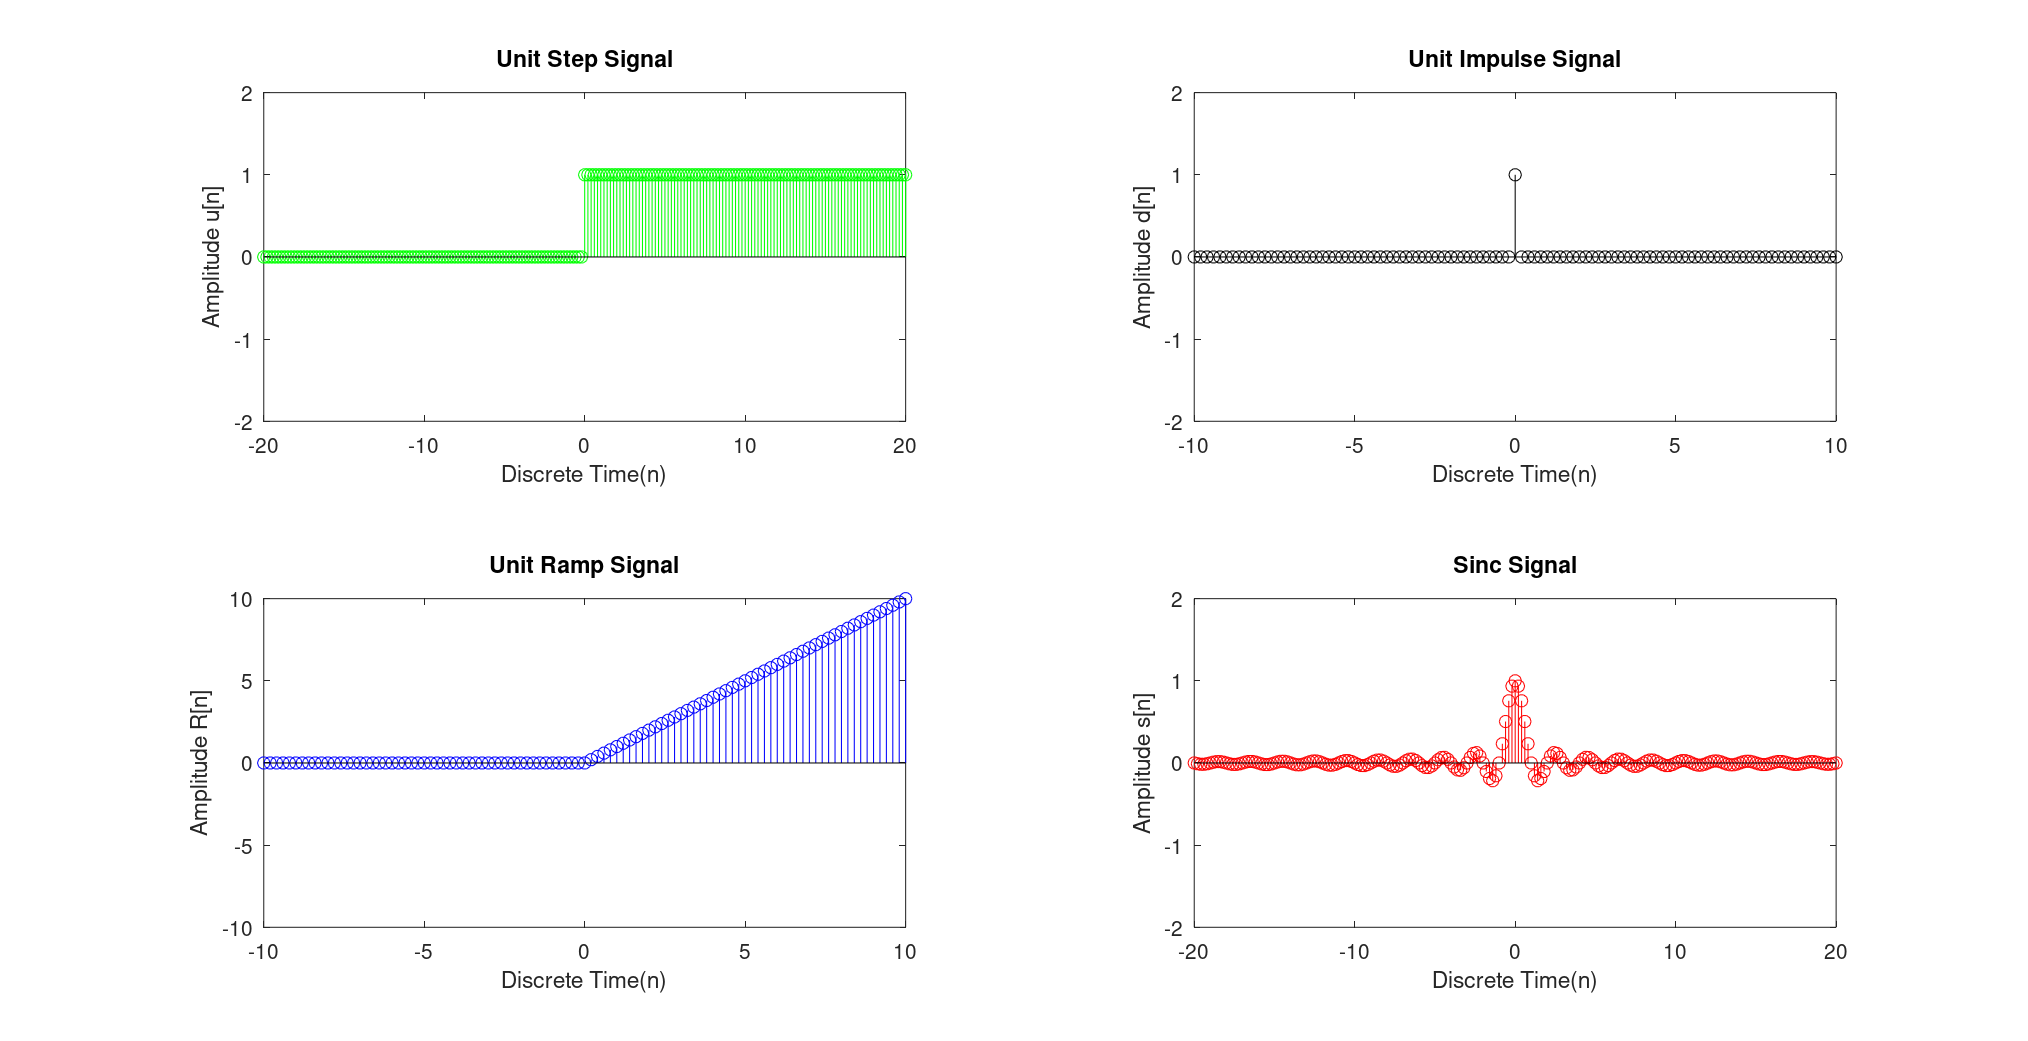
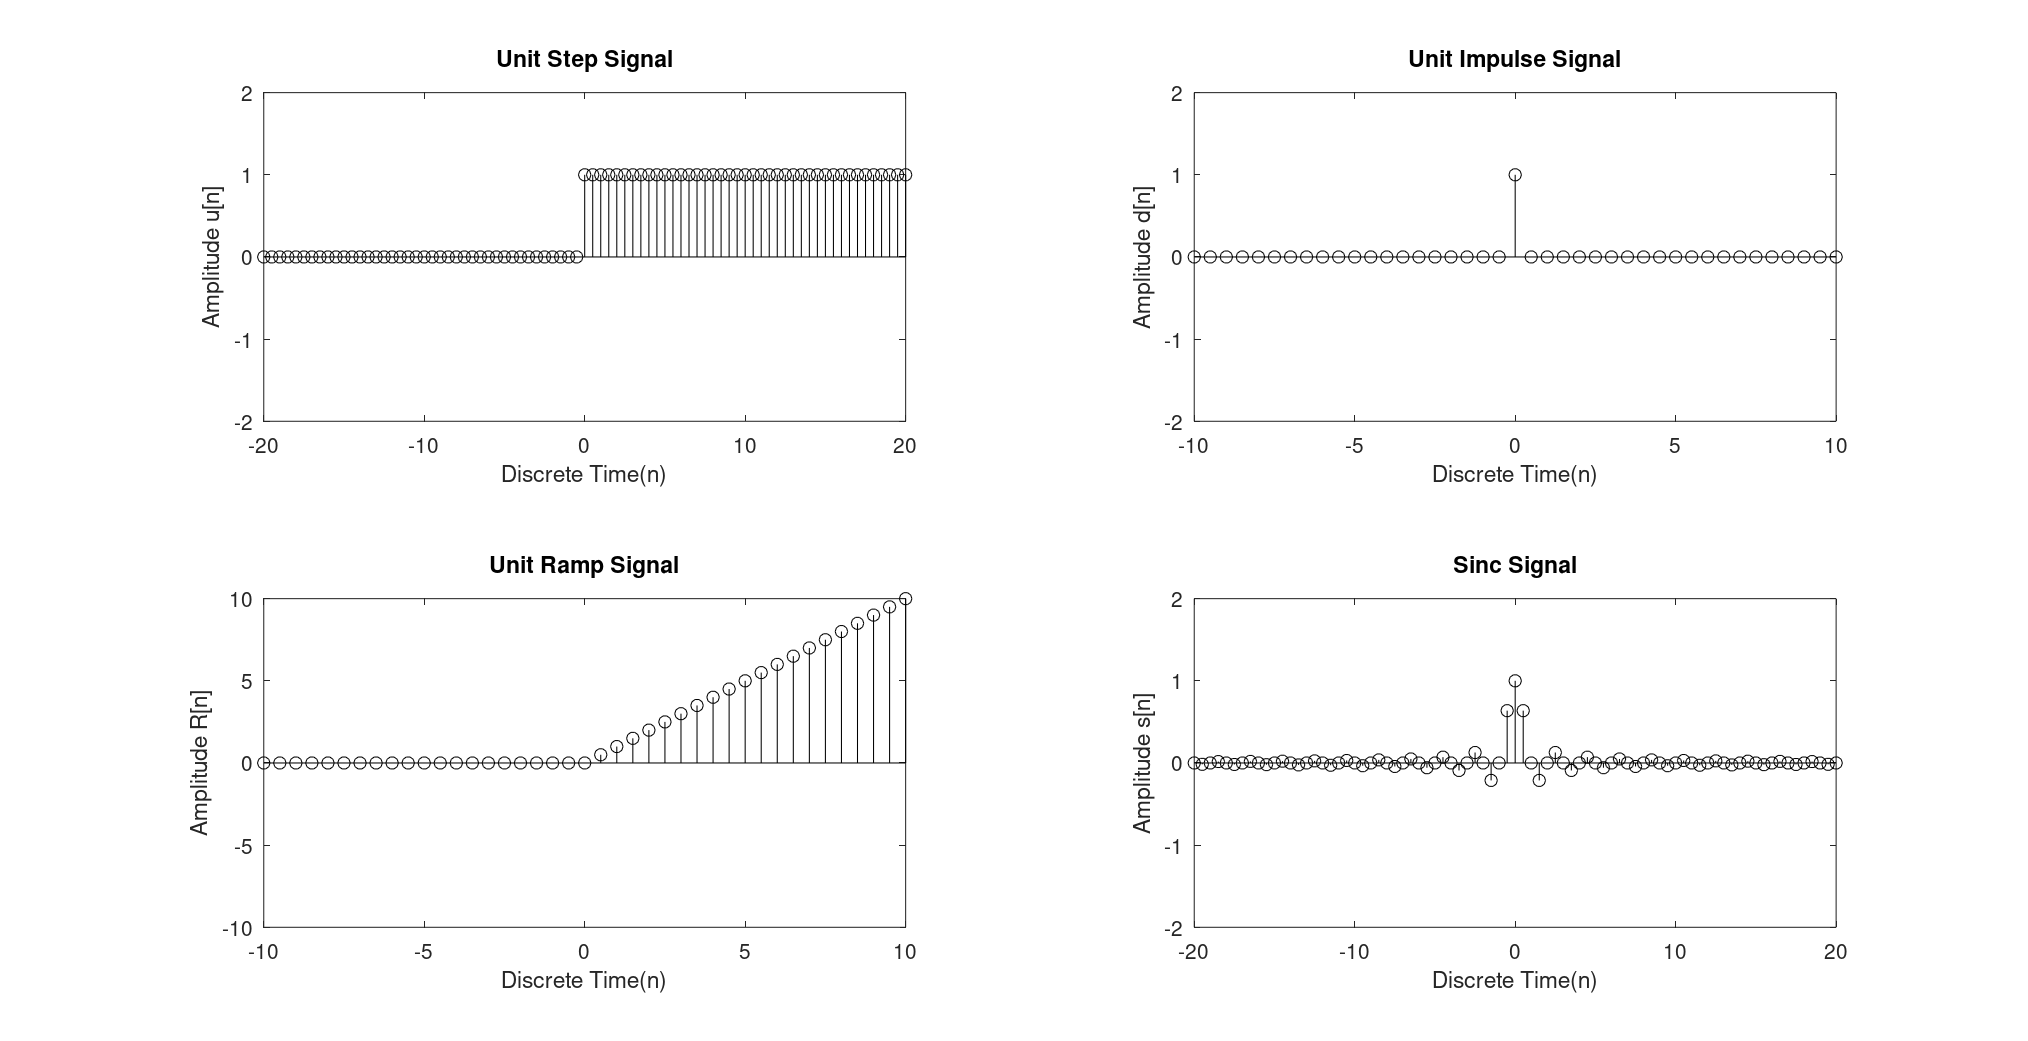
Completed Lab 2

diff --git a/lab2/shifting.m b/lab2/shifting.m
@@ -1,0 +1,70 @@
+% Plot for x[n] = 1 for -4<=n<=0 and
+%                 2 for 1<=n<=4
+% Resets
+clc
+clear variables 
+close all
+% Code 
+% Variables
+xticks_val=-8:1:8;
+yticks_val=-3:1:3;
+axis_val=[-8 8 -3 3];
+shift=3;
+n = -4:1:4;
+x = zeros(1,length(n));
+for i=1:length(n)
+    if n(i) <=0
+        x(i) = 1;
+    else 
+        x(i) = 2;
+    endif
+endfor 
+% Subplot for x[n]
+subplot(2,2,1);
+stem(n,x,'k');
+axis(axis_val)
+xticks(xticks_val);
+yticks(yticks_val);
+xlabel("Discrete Interval n");
+ylabel("Amplitude");
+title("Original Signal x[n] | CRN: KCE075BCT008");
+grid on;
+% Shifting 
+% right shifting x[n-3]
+subplot(2,2,2);
+stem(n+shift,x,'k');
+axis(axis_val)
+xticks(xticks_val);
+yticks(yticks_val);
+xlabel("Discrete Interval n");
+ylabel("Amplitude");
+title("Right Shifted Signal x[n-3] | CRN: KCE075BCT008");
+grid on;
+% Left shifting x[n+3]
+subplot(2,2,3);
+stem(n-shift,x,'k');
+axis(axis_val)
+xticks(xticks_val);
+yticks(yticks_val);
+xlabel("Discrete Interval n");
+ylabel("Amplitude");
+title("Left Shifted Signal x[n+3] | CRN: KCE075BCT008");
+grid on;
+% Folding x[-n]
+% Using -n
+% subplot(2,4,4);
+% stem(-n, x,'k');
+% axis([-10 10 -3 3])
+% xlabel("Discrete Interval n");
+% ylabel("Amplitude");
+% title("Folded Signal x[-n] using -n");
+% Using fliplr
+subplot(2,2,4);
+stem(n, fliplr(x),'k');
+axis(axis_val)
+xticks(xticks_val);
+yticks(yticks_val);
+xlabel("Discrete Interval n");
+ylabel("Amplitude");
+title("Folded Signal x[-n] using fliplr | CRN: KCE075BCT008");
+grid on;

diff --git a/lab2/scaling.m b/lab2/scaling.m
@@ -1,0 +1,59 @@
+% Plot for x[n] = 1 for -4<=n<=0 and
+%                 2 for 1<=n<=4
+% Resets
+clc
+clear variables 
+close all
+% Code 
+% Variables
+scale_factor = 2;
+xticks_val=-10:1:10;
+yticks_val=-3:1:3;
+axis_val=[-10 10 -3 3];
+shift=3;
+n = -4:1:4;
+x = zeros(1,length(n));
+for i=1:length(n)
+    if n(i) <=0
+        x(i) = 1;
+    else 
+        x(i) = 2;
+    endif
+endfor 
+% Subplot for x[n]
+subplot(2,2,1);
+stem(n,x,'k');
+axis(axis_val)
+xticks(xticks_val);
+yticks(yticks_val);
+xlabel("Discrete Interval n");
+ylabel("Amplitude");
+title("Original Signal x[n] | CRN: KCE075BCT008");
+grid on;
+% Scaling
+% Compressed Signal x[2n]
+op_len = ceil(length(x)/scale_factor);
+x1=zeros(1,op_len);
+for i=1:op_len
+    x1(i) = x(scale_factor*i-1);
+    n1(i) = n(scale_factor*i-1)/scale_factor;
+endfor
+subplot(2,2,2);
+stem(n1,x1,'k');
+axis(axis_val)
+xticks(xticks_val);
+yticks(yticks_val);
+xlabel("Discrete Interval n");
+ylabel("Amplitude");
+title("Compressed Signal x[2n] | CRN: KCE075BCT008");
+grid on;
+% Dilated Signal x[n/2]
+subplot(2,2,3);
+stem(n*scale_factor,x,'k');
+axis(axis_val)
+xticks(xticks_val);
+yticks(yticks_val);
+xlabel("Discrete Interval n");
+ylabel("Amplitude");
+title("Dilated Signal x[n/2] | CRN: KCE075BCT008");
+grid on;

diff --git a/lab2/Odd_even.m b/lab2/Odd_even.m
@@ -1,0 +1,59 @@
+% Plot for x[n] = 1 for -4<=n<=0 and
+%                 2 for 1<=n<=4
+% Resets
+clc
+clear variables 
+close all
+% Code 
+% Variables
+scale_factor = 2;
+xticks_val=-10:1:10;
+yticks_val=-3:1:3;
+axis_val=[-10 10 -3 3];
+shift=3;
+n = -4:1:4;
+x = zeros(1,length(n));
+for i=1:length(n)
+    if n(i) <=0
+        x(i) = 1;
+    else 
+        x(i) = 2;
+    endif
+endfor 
+% Subplot for x[n]
+subplot(2,2,1);
+stem(n,x,'k');
+axis(axis_val)
+xticks(xticks_val);
+yticks(yticks_val);
+xlabel("Discrete Interval n");
+ylabel("Amplitude");
+title("Original Signal x[n] | CRN: KCE075BCT008");
+grid on;
+% Odd and even part of signal 
+% For even part 
+x_neg = fliplr(x);
+% even part of signal
+even=(x+x_neg)/2;
+% Odd part of signal
+odd=(x-x_neg)/2;
+% Subplot for even part e[n]
+subplot(2,2,2);
+stem(n,even,'k');
+axis(axis_val)
+xticks(xticks_val);
+yticks(yticks_val);
+xlabel("Discrete Interval n");
+ylabel("Amplitude");
+title("Even part of Signal e[n] | CRN: KCE075BCT008");
+grid on;
+% Subplot for odd part e[n]
+subplot(2,2,3);
+stem(n,odd,'k');
+axis(axis_val)
+xticks(xticks_val);
+yticks(yticks_val);
+xlabel("Discrete Interval n");
+ylabel("Amplitude");
+title("Odd part of Signal o[n] | CRN: KCE075BCT008");
+grid on;

diff --git a/lab1/ms.m b/lab1/ms.m
@@ -1,0 +1,60 @@
+clc;
+clear variables;
+close all;
+n = -5:0.5:5;
+x = zeros(1, length(n));
+for i=1:(length(n))
+ if n(i) >= 0
+ x(i) = 1;
+ end
+end
+subplot(3, 2, 1);
+stem(n,x);
+axis([-5 5 0 2]);
+xlabel('Discrete interval n');
+ylabel('Amplitude');
+title('Discrete unit step signal');
+n = -5:0.5:5;
+x = zeros(1, length(n));
+for i=1:(length(n))
+ if n(i) >= 0
+ x(i) = n(i);
+ end
+end
+subplot(3, 2, 2);
+stem(n,x);
+axis([-5 5 0 10]);
+xlabel('Discrete interval n');
+ylabel('Amplitude');
+title('Ramp signal');
+n = -5:0.1:5;
+x = zeros(1, length(n));
+x = 1.*0.8.^n;
+subplot(3, 2, 3);
+stem(n,x);
+axis([-10 10 0 4]);
+xlabel('Discrete interval n');
+ylabel('Amplitude');
+title('Exponential signal');
+n = -5:0.1:5;
+x = zeros(1, length(n));
+x = sin(pi.*n)./(pi.*n);
+subplot(3, 2, 4);
+stem(n,x);
+axis([-5 5 -1 2]);
+xlabel('Discrete interval n');
+ylabel('Amplitude');
+title('Sinc signal');
+n = -5:0.5:5;
+x = zeros(1, length(n));
+for i=1:(length(n))
+ if n(i) == 0
+ x(i) = 1;
+ end
+end
+subplot(3,2,5);
+stem(n,x);
+axis([-5 5 0 2]);
+xlabel('Discrete interval n');
+ylabel('Amplitude');
+title('Discrete unit impulse signal');

diff --git a/lab1/multiple_exponent.m b/lab1/multiple_exponent.m
@@ -1,3 +1,6 @@
+clc
+clear
+close all
 A=20
 a=0.5
 x=-5:0.2:5;
@@ -10,25 +13,25 @@ for i=1:length(x)
 endfor
 % For Ae^an
 subplot(2,2,1)
-stem(x,y1,"r:diamond");
-title("Exponential Signal for Ae^at");
+stem(x,y1,"k");
+title("Exponential Signal for Ae^ an");
 xlabel("Discrete Time(n)");
 ylabel("Amplitude e1[n]");
 % For Ae^-an
 subplot(2,2,2)
-stem(x,y2,"bv");
-title("Exponential Signal for Ae^-at");
+stem(x,y2,"k");
+title("Exponential Signal for Ae^ -an");
 xlabel("Discrete Time(n)");
 ylabel("Amplitude e2[n]");
 % For -Ae^an
 subplot(2,2,3)
-stem(x,y3,"g");
-title("Exponential Signal for -Ae^at");
+stem(x,y3,"k");
+title("Exponential Signal for -Ae^ an");
 xlabel("Discrete Time(n)");
 ylabel("Amplitude e3[n]");
 % For -Ae^-an
 subplot(2,2,4)
-stem(x,y2,"mv");
-title("Exponential Signal for -Ae^-at");
+stem(x,y4,"k");
+title("Exponential Signal for -Ae^ -an");
 xlabel("Discrete Time(n)");
 ylabel("Amplitude e4[n]");

diff --git a/lab1/multiple_signals.m b/lab1/multiple_signals.m
@@ -1,4 +1,4 @@
-x=-20:0.2:20;
+x=-20:0.5:20;
 y1=y2=y3=y4=zeros(1,length(x));
 for i=1:length(x)
   if x(i) > 0
@@ -20,7 +20,7 @@ for i=1:length(x)
 endfor
 %Unit Step
 subplot(2,2,1);
-stem(x,y1,"g");
+stem(x,y1,"k");
 axis([-20,20,-2,2]);
 title("Unit Step Signal");
 xlabel("Discrete Time(n)");
@@ -34,14 +34,14 @@ xlabel("Discrete Time(n)");
 ylabel("Amplitude d[n]");
 % Unit Ramp
 subplot(2,2,3);
-stem(x,y3,"b");
+stem(x,y3,"k");
 axis([-10,10,-10,10]);
 title("Unit Ramp Signal");
 xlabel("Discrete Time(n)");
 ylabel("Amplitude R[n]");
 % Sinc
 subplot(2,2,4);
-stem(x,y4,"r");
+stem(x,y4,"k");
 axis([-20,20,-2,2]);
 title("Sinc Signal");
 xlabel("Discrete Time(n)");

diff --git a/lab2/lab2.md b/lab2/lab2.md
@@ -1,0 +1,10 @@
+# Lab 2: Signal Generation and Manipulation
+
+## Objective: 
+- To perform shifting,scaling and folding of discrete time signal
+
+## Theory:
+- Shifting of discrete-time signal
+- Folding
+- Scaling
+- Odd and even part of signal
